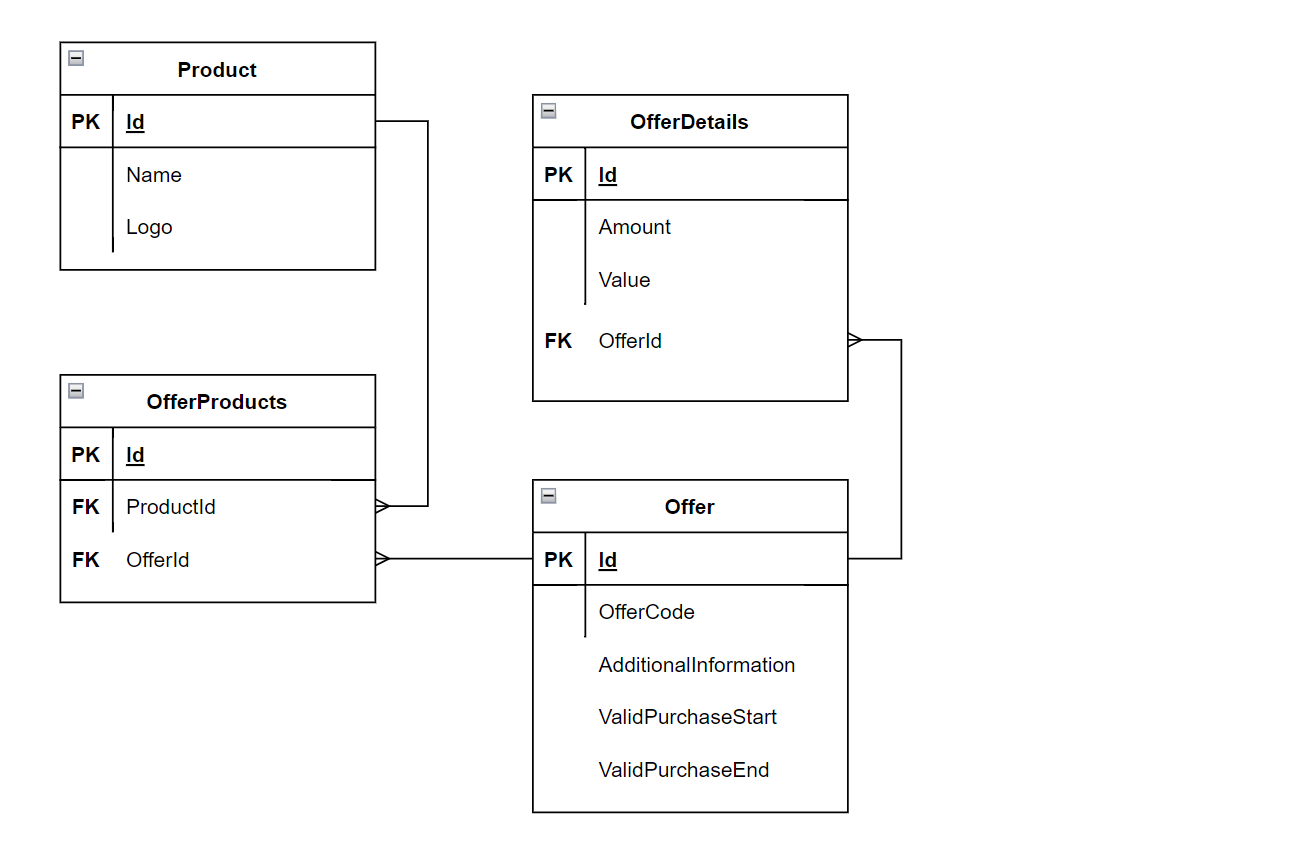
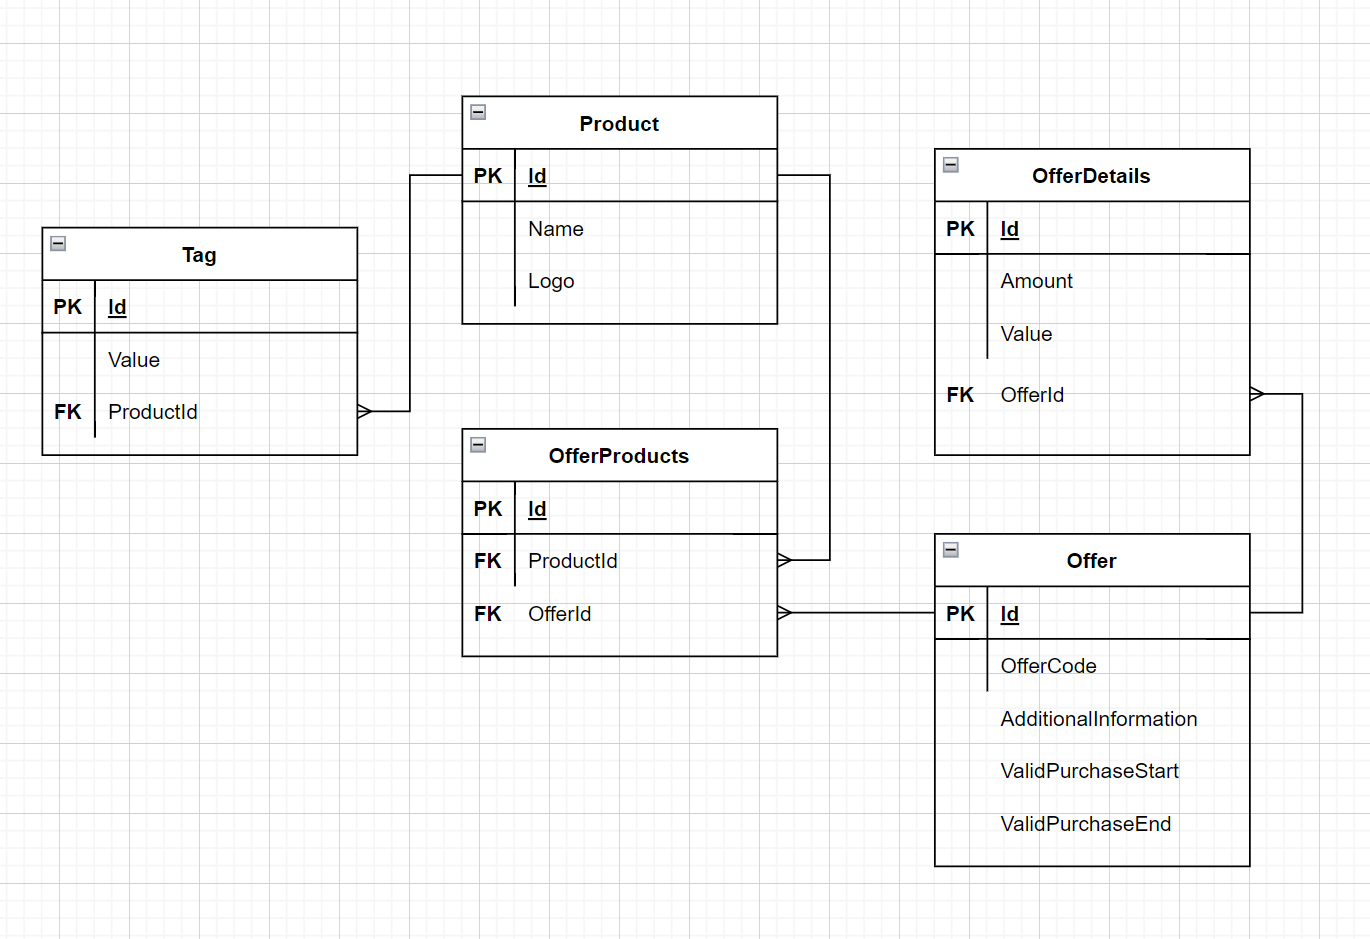
Add tag table & improve filtering offers
Adds a tag table to improve the filtering offers method.

diff --git a/ElancoLibrary/Data/OfferData.cs b/ElancoLibrary/Data/OfferData.cs
@@ -41,7 +41,7 @@ namespace ElancoLibrary.Data
                     offerId = offer.Id
                 };
 
-                var offerDetails = await _dataAccess.LoadData<OfferDetails, dynamic>("dbo.spOfferDetails_GetById", p, "ElancoData");
+                var offerDetails = await _dataAccess.LoadData<OfferDetailsModel, dynamic>("dbo.spOfferDetails_GetById", p, "ElancoData");
                 var offerProducts = await _dataAccess.LoadData<ProductModel, dynamic>("dbo.spProduct_GetById", p, "ElancoData");
 
                 if (offerDetails == null)
@@ -53,6 +53,24 @@ namespace ElancoLibrary.Data
                 {
                     _logger.LogWarning("Failed to retrieve offer products of ID: {Id} from database at {Time}", offer.Id, DateTime.UtcNow);
                     throw new NullReferenceException($"Failed to load offer products by ID: { offer.Id }.");
+                }
+
+                foreach (ProductModel product in offerProducts)
+                {
+                    var i = new
+                    {
+                        productId = product.Id
+                    };
+
+                    var associatedTags = await _dataAccess.LoadData<TagModel, dynamic>("dbo.spTag_GetById", i, "ElancoData");
+
+                    if (associatedTags == null)
+                    {
+                        _logger.LogWarning("Failed to retrieve product tags of product ID: {Id} from database at {Time}", product.Id, DateTime.UtcNow);
+                        associatedTags = new List<TagModel>();
+                    }
+
+                    product.Tags = associatedTags;
                 }
 
                 offer.Details = offerDetails;
@@ -81,7 +99,7 @@ namespace ElancoLibrary.Data
 
             OfferModel offer = rawOffer.FirstOrDefault();
 
-            offer.Details = await _dataAccess.LoadData<OfferDetails, dynamic>("dbo.spOfferDetails_GetById", p, "ElancoData");
+            offer.Details = await _dataAccess.LoadData<OfferDetailsModel, dynamic>("dbo.spOfferDetails_GetById", p, "ElancoData");
             offer.Products = await _dataAccess.LoadData<ProductModel, dynamic>("dbo.spProduct_GetById", p, "ElancoData");
 
             if (offer.Details == null)
@@ -93,6 +111,24 @@ namespace ElancoLibrary.Data
             {
                 _logger.LogWarning("Failed to retrieve offer products of ID: {Id} from database at {Time}", offer.Id, DateTime.UtcNow);
                 throw new NullReferenceException($"Failed to load offer products by ID: { offerId }.");
+            }
+
+            foreach (ProductModel product in offer.Products)
+            {
+                var i = new
+                {
+                    productId = product.Id
+                };
+
+                var associatedTags = await _dataAccess.LoadData<TagModel, dynamic>("dbo.spTag_GetById", i, "ElancoData");
+
+                if (associatedTags == null)
+                {
+                    _logger.LogWarning("Failed to retrieve product tags of product ID: {Id} from database at {Time}", product.Id, DateTime.UtcNow);
+                    associatedTags = new List<TagModel>();
+                }
+
+                product.Tags = associatedTags;
             }
 
             _logger.LogDebug("Retrieved offer by ID: {Id} from database at {Time}", offerId ,DateTime.UtcNow);

diff --git a/ElancoUI/Helpers/OfferHelper.cs b/ElancoUI/Helpers/OfferHelper.cs
@@ -13,17 +13,20 @@ namespace ElancoUI.Helpers
 
         public List<OfferModel> FilterOffers(List<string> content, List<OfferModel> offers)
         {
-            List<OfferModel> filteredOffers = new List<OfferModel>();
+            HashSet<OfferModel> filteredOffers = new HashSet<OfferModel>();
 
-            foreach (OfferModel offer in offers)
+            foreach (string analysedText in content)
             {
-                foreach (ProductModel offerProduct in offer.Products)
+                foreach (OfferModel offer in offers)
                 {
-                    foreach (string text in content)
+                    foreach (ProductModel product in offer.Products)
                     {
-                        if (text == offerProduct.Name)
+                        foreach (TagModel tag in product.Tags)
                         {
-                            filteredOffers.Add(offer);
+                            if (analysedText.ToLower() == tag.Value.ToLower())
+                            {
+                                filteredOffers.Add(offer);
+                            }
                         }
                     }
                 }
@@ -38,7 +41,7 @@ namespace ElancoUI.Helpers
                 _logger.LogDebug("Matched {Count} offers with the analysed product image at {Time}", filteredOffers.Count, DateTime.UtcNow);
             }
 
-            return filteredOffers;
+            return filteredOffers.ToList();
         }
     }
 }

diff --git a/ElancoLibrary/Models/Offers/TagModel.cs b/ElancoLibrary/Models/Offers/TagModel.cs
@@ -1,0 +1,21 @@
+using System;
+using System.Collections.Generic;
+using System.Linq;
+using System.Text;
+using System.Threading.Tasks;
+
+namespace ElancoLibrary.Models.Offers
+{
+    public class TagModel
+    {
+        /// <summary>
+        ///     The ID number of an individual product.
+        /// </summary>
+        public int Id { get; set; }
+
+        /// <summary>
+        ///     The value of the tag. E.g. Interceptor, Plus, Advantage, Multi
+        /// </summary>
+        public string Value { get; set; }
+    }
+}

diff --git a/ElancoLibrary/Models/Offers/ProductModel.cs b/ElancoLibrary/Models/Offers/ProductModel.cs
@@ -27,5 +27,10 @@ namespace ElancoLibrary.Models.Offers
         ///     The extension type of the image. E.g. .png, .jpg, .jpeg
         /// </summary>
         public string ImageType { get; set; }
+
+        /// <summary>
+        ///     A list of tags associated with the product to allow for easier filtering/searching.
+        /// </summary>
+        public List<TagModel> Tags { get; set; } = new List<TagModel>();
     }
 }

diff --git a/ElancoLibrary/Models/Offers/OfferModel.cs b/ElancoLibrary/Models/Offers/OfferModel.cs
@@ -36,7 +36,7 @@ namespace ElancoLibrary.Models.Offers
         /// <summary>
         ///     A list of details regarding the offer. 
         /// </summary>
-        public List<OfferDetails> Details { get; set; } = new List<OfferDetails>();
+        public List<OfferDetailsModel> Details { get; set; } = new List<OfferDetailsModel>();
 
         /// <summary>
         ///     A string of extra information regarding the offer.

diff --git a/ElancoLibrary/Models/Offers/OfferDetailsModel.cs b/ElancoLibrary/Models/Offers/OfferDetailsModel.cs
@@ -6,7 +6,7 @@ using System.Threading.Tasks;
 
 namespace ElancoLibrary.Models.Offers
 {
-    public class OfferDetails
+    public class OfferDetailsModel
     {
         /// <summary>
         ///     The ID number of an offer's detail.
